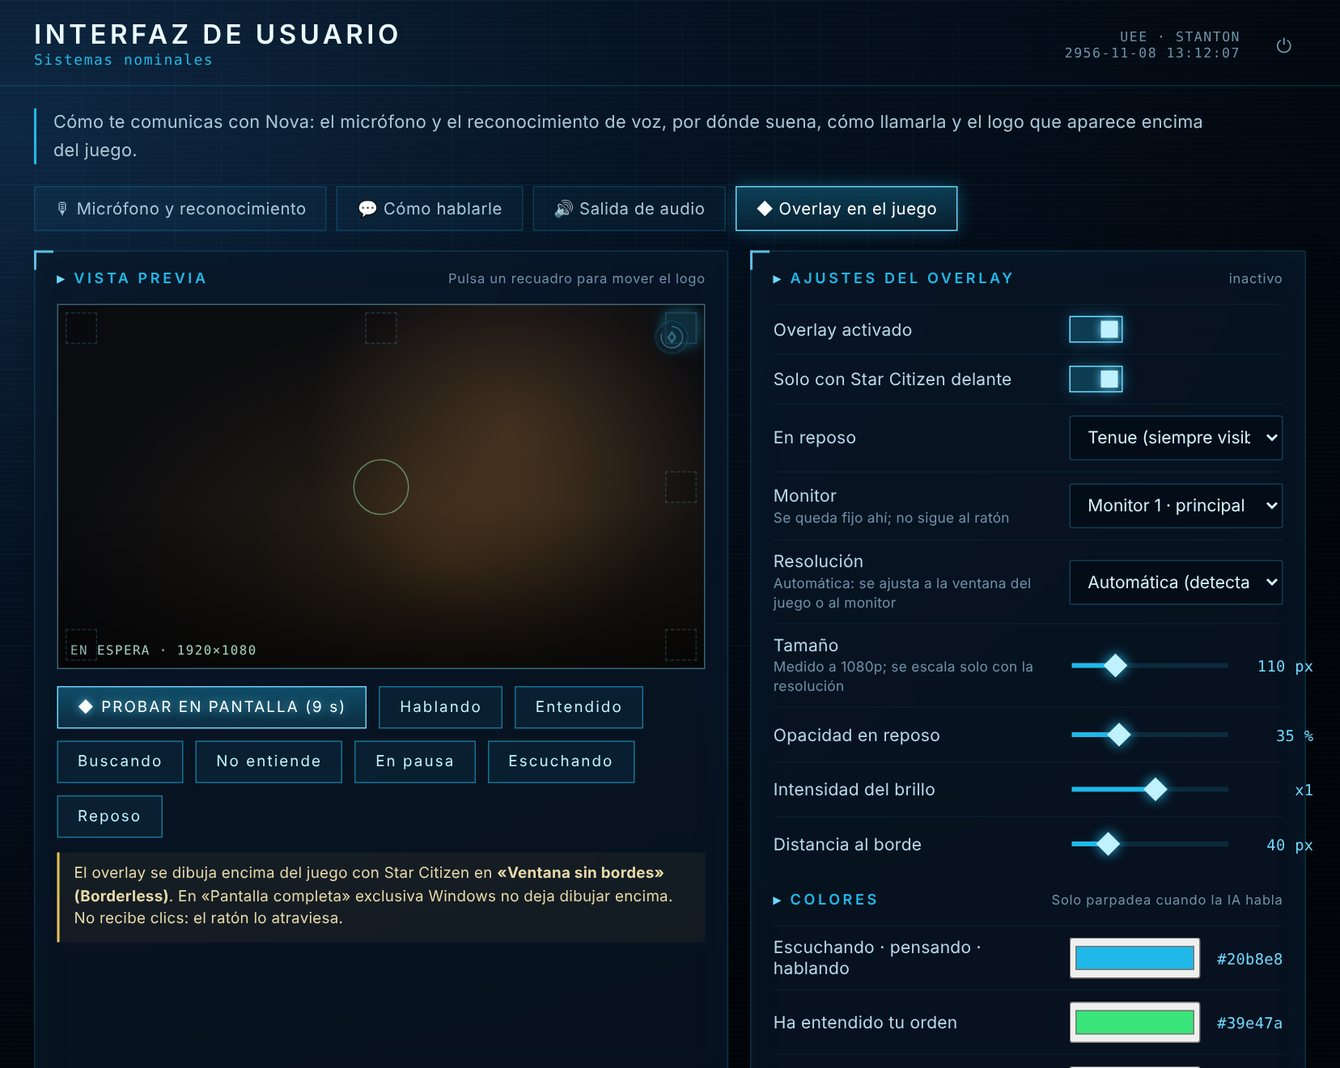
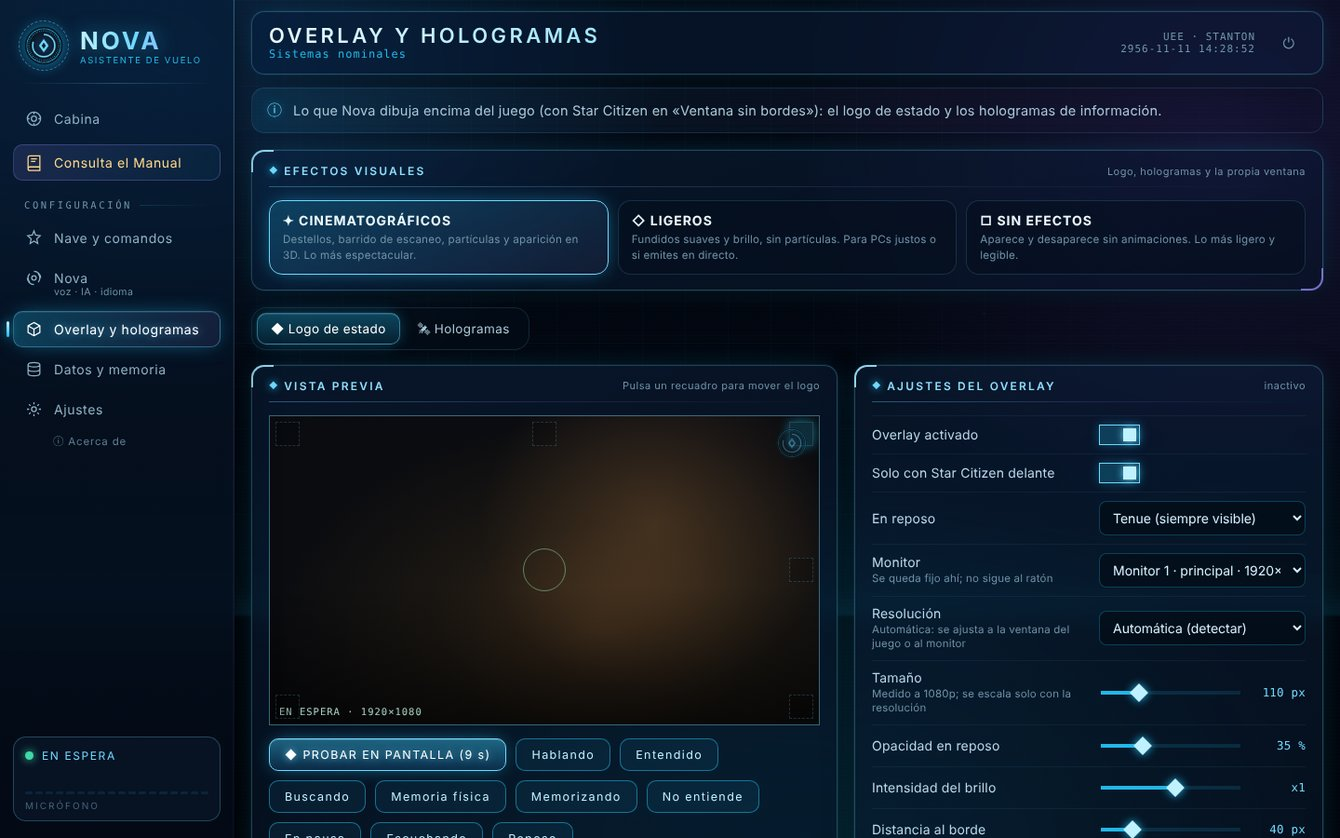
README: capturas nuevas de la 1.3 y todos los cambios
- Capturas de la ventana «Cristal holográfico» (cabina, secciones y asistente),
  vista en inglés y alemán, y la ventana «Acerca de» con la licencia MIT.
- Qué hace y Novedades de la 1.3 al día; versiones anteriores plegadas.
- Instalación con el paso de idioma, normas en cinco idiomas y aviso de
  SmartScreen y Control inteligente de aplicaciones mientras no esté firmada.
- Claves en Nova › Inteligencia (capítulo 11 del manual), sección de opiniones
  en Issues, compilación por etapas y GitHub Actions, estructura nueva,
  resumen en inglés y derechos de terceros ampliados.

Claude-Session: https://claude.ai/code/session_0187yjVjvMt5N21DENDTMtCJ

diff --git a/README.md b/README.md
@@ -5,14 +5,16 @@
 <h1 align="center">NOVA AI</h1>
 <p align="center"><b>Asistente de vuelo por voz para Star Citizen</b><br>
 Te escucha, te responde con voz natural, pulsa las teclas del juego por ti y sabe qué está pasando en tu partida.<br>
-<i>Versión oficial 1.3 · Windows 10/11 · español, English, català, français, Deutsch · todo gratis</i></p>
+<i>Versión oficial 1.3 · Windows 10/11 · español, English, català, français, Deutsch · todo gratis y de código abierto</i></p>
 
 <p align="center">
   <a href="../../releases/latest"><b>⬇ Descargar NOVA AI Setup.exe</b></a> ·
   <a href="LEEME.md">Guía completa (LEEME)</a> ·
   <a href="../../releases/latest">Manual de usuario (PDF)</a> ·
+  <a href="../../issues">Opiniones y errores</a> ·
   <a href="LICENSE">Licencia MIT</a> ·
-  <a href="#code-signing-policy">Code signing policy</a>
+  <a href="#code-signing-policy">Code signing policy</a> ·
+  <a href="#in-english">English</a>
 </p>
 
 ![Cabina de NOVA AI](docs/img/cabina.jpg)
@@ -20,25 +22,41 @@ Te escucha, te responde con voz natural, pulsa las teclas del juego por ti y sab
 ## Qué hace
 
 - **Te escucha:** mantén una tecla, un botón del ratón o del HOTAS, o simplemente di su nombre: *«Nova, baja el tren»*. El nombre lo eliges tú.
+- **Habla tu idioma:** español, inglés, catalán, francés o alemán. La ventana, su voz, lo que entiende, los comandos, los hologramas y el manual cambian con el idioma, y te trata siempre de usted.
 - **Maneja la nave:** lee tus teclas de Star Citizen (`actionmaps.xml`) y las pulsa por ti: tren, pista, escudos, salto cuántico… Con un editor para crear tus propios comandos y secuencias.
-- **Conversa y busca** (con tu clave gratuita de IA): lore, naves, minería, planos de fabricación, misiones y precios, con datos del parche LIVE (scmdb.net, UEX Corp, Star Citizen Wiki) y una enciclopedia local.
-- **Sigue tu partida:** lee el `Game.log` en directo, en el idioma de tu juego: dónde estás, quién entra en tu nave, la torre, contratos, combate, curas en camilla médica, cargas…
-- **Cuaderno de bitácora:** apunta cada sesión: dónde dejaste el personaje, la última nave, muertes, bajas, incapacitaciones…
-- **Star Citizen en español:** instala y mantiene al día la traducción de la comunidad (0zzyt0) con un clic, y te avisa cada 3 meses.
-- **Brilla en el juego:** un overlay con su logo que cambia de color: escuchando, entendido, buscando o hablando.
-- **Recuerda:** lo que le cuentas, la conversación y dónde lo dejaste, aunque cierres el programa.
+- **Conversa y busca** (con tu clave gratuita de IA): lore, naves, minería, planos de fabricación, misiones y precios con datos del parche LIVE (scmdb.net, UEX Corp, Star Citizen Wiki, VerseGuide, StarMap…).
+- **Te dice dónde comprar:** *«¿Dónde compro un P4-AR?»* y te contesta por voz con las tiendas y los precios, sin abrir el navegador.
+- **Sigue tu partida:** lee el `Game.log` en directo: dónde estás, quién entra en tu nave, la torre, contratos, combate, curas en camilla médica, cargas…
+- **Hologramas sobre el juego:** fichas de jugadores (con su organización), objetivos de recompensa, planetas, lunas y lugares, con efectos cinematográficos, ligeros o ninguno.
+- **Chat del juego y Discord:** *«Nova, envía mensaje al chat…»* lo traduce y lo escribe por ti; las fichas pueden llegar solas a tu canal de Discord.
+- **Recuerda:** un Diccionario de consultas con unas 7.000 entradas que contesta sin gastar IA, lo que le cuentas y un cuaderno de bitácora de cada sesión.
+- **Star Citizen en tu idioma:** en español instala y mantiene al día la traducción de la comunidad (0zzyt0); en los demás idiomas instala el `global.ini` que elijas.
+- **Brilla en el juego:** un overlay con su logo que cambia de color según lo que hace: escuchando, entendido, buscando o hablando.
 
-### Novedades de la 1.3
+## Novedades de la 1.3
 
-- **Cinco idiomas** (español, inglés, catalán, francés y alemán), elegibles en el instalador o en Ajustes: ventana, voz de Nova, lo que entiende, comandos de voz, hologramas y manual.
-- **«Add your Language global.ini of Star Citizen [HERE]»**: instala el global.ini de la comunidad en tu idioma (con copia de seguridad y user.cfg).
-- **Ventana nueva «Cristal holográfico»** ordenada por tareas y **efectos en tres niveles** (cinematográficos, ligeros o sin efectos) para el logo y los hologramas.
-- **«¿Dónde compro un P4-AR?»** por voz con los datos de UEX, sin abrir el navegador, y **comprobación de las páginas de consulta** desde la app.
+![NOVA AI en inglés y en alemán](docs/img/idiomas.jpg)
 
-### Novedades de la 1.2.2
+- **Cinco idiomas**: español, English, català, français y Deutsch. Se eligen en el primer paso del instalador (propone el de tu Windows) o en *Ajustes › General*. Cambia la ventana, la voz de Nova (Edge y Piper), lo que entiende, los comandos de voz, los hologramas, la bitácora, las normas de uso y el manual. Quien ya usaba NOVA AI sigue en español.
+- **«Add your Language global.ini of Star Citizen [HERE]»** (traducido a cada idioma), en *Datos y memoria › Traducción del juego*: instala el `global.ini` de la comunidad en tu idioma con copia de seguridad, ajusta `user.cfg` y Nova lo usa para entender el `Game.log`. Se deshace con un botón. En los idiomas distintos del español se desactivan la traducción de 0zzyt0 y su descarga de Google Drive.
+- **Ventana nueva «Cristal holográfico»**, ordenada por tareas: **Cabina**, **Nave y comandos**, **Nova** (identidad e idioma, voz, micrófono, cómo hablarle, audio, inteligencia y ahorro de tokens), **Overlay y hologramas**, **Datos y memoria** y **Ajustes**. Cada sección tiene sus pestañas y una línea que explica para qué sirve.
+- **Efectos en tres niveles** para el logo y los hologramas: **cinematográficos** (destellos, barrido y aberración cromática), **ligeros** (para equipos modestos o si emites en directo) o **sin efectos**.
+- **«¿Dónde compro…?»** por voz con los datos de UEX Corp, sin abrir el navegador.
+- **Comprobar las páginas de consulta** desde *Datos y memoria › Páginas de consulta*: Nova prueba cada página en línea y te dice cuáles responden.
+- **Licencia MIT**: NOVA AI pasa a ser software libre y se compila desde este repositorio con GitHub Actions.
+
+| | |
+|---|---|
+| ![Nova: identidad e idioma](docs/img/nova.jpg) | ![Ajustes: idioma, actualizaciones y archivos](docs/img/ajustes.jpg) |
+| ![Overlay y efectos visuales](docs/img/overlay.jpg) | ![Hologramas](docs/img/hologramas.jpg) |
+
+<details>
+<summary><b>Novedades de versiones anteriores (1.2.2, 1.2 y 1.1)</b></summary>
+
+### 1.2.2
 
 - **Interruptor «NOVA ACTIVA»** en la Cabina: detiene a Nova al momento y cancela todas las búsquedas en curso.
-- **Mensajes al chat del juego:** «Nova, envía mensaje al chat…» lo traduce al inglés con Google Translate y lo escribe en el chat (F12).
+- **Mensajes al chat del juego:** «Nova, envía mensaje al chat…» lo traduce con Google Translate y lo escribe en el chat (F12).
 - **Discord:** cada ficha de jugador (y cada objetivo de recompensa) se manda sola, con foto y logotipo; la Cabina dice si llegó.
 - **Sonidos de los hologramas a tu gusto:** varios para elegir o un audio tuyo, con volumen para cada uno.
 - **Diccionario de consultas:** su memoria física en un .txt por grupos y en orden alfabético (unas 7.000 entradas del juego, con sus variantes). Contesta desde ahí sin gastar IA (overlay en morado) y memoriza lo que aprende en internet (en blanco). No caduca nunca.
@@ -46,41 +64,52 @@ Te escucha, te responde con voz natural, pulsa las teclas del juego por ti y sab
 - **Más páginas de la comunidad:** StarMap (API pública), SPViewer, Universal Item Finder (CStone) y SC Haulers.
 - **Manual dentro del programa** (📖 Consulta el Manual) con guía rápida y glosario, y Nova se presenta si le preguntas «¿quién eres?».
 
-### Novedades de la 1.2: hologramas y actualizaciones
+### 1.2: hologramas y actualizaciones
 
-- **Se actualiza sola:** al iniciar y al cerrar mira las Releases de este repositorio y pregunta «Se ha detectado una nueva versión vX.X de NOVA AI. ¿Quieres actualizar ahora?» [Sí] [No] [Al cerrar la aplicación].
-
+- **Se actualiza sola:** al iniciar y al cerrar mira las Releases de este repositorio y te pregunta si quieres actualizar ahora, más tarde o al cerrar.
 - **Fichas en holograma sobre el juego**, con animación de proyector y opacidad, tamaño, posición y duración a tu gusto.
 - **Ficha policial UEE** de un jugador: foto, datos y logotipo de su organización (los datos ocultos salen como `REDACTED`).
 - **Cazarrecompensas:** al aceptar una recompensa sobre un jugador, ficha del objetivo con el sello «OBJETIVO DE CAZA».
 - **Planetas, lunas y lugares planetarios** (cuevas, puestos, bases) de [verseguide.com](https://verseguide.com): al pedirlos por voz o al llegar cerca, con el cuerpo girando en 3D.
 
-### Novedades de la 1.1
+### 1.1
 
-- **Buscar jugadores:** *«Nova, búscame a un jugador»* → escribes el apodo en la Cabina y te da su ficha pública de RSI (apodo, handle, UEE Citizen Record, fecha de alta, idiomas, organización principal y datos de la org). Se guarda en la bitácora y, opcionalmente, se manda a un canal de Discord (webhook).
+- **Buscar jugadores:** *«Nova, búscame a un jugador»* → escribes el apodo en la Cabina y te da su ficha pública de RSI. Se guarda en la bitácora y, si quieres, se manda a Discord.
 - **Temporizadores** persistentes para refinados, contratos o lo que quieras, con aviso por voz.
 - **Rutas de comercio** con el beneficio real según las SCU de tu nave, el stock, la demanda y tu dinero (UEX).
 - **Perfiles de nave:** avisos distintos por nave y comandos que solo valen en ciertas naves.
 - **Estado de los servidores de RSI** al arrancar.
 - **Fijar objetivo por voz** anotado en la bitácora, **estadísticas** de todas tus sesiones y botón **🧹 Limpiar** en la Cabina.
 
+</details>
+
+## Capturas
+
 | | |
 |---|---|
-| ![Juego](docs/img/juego.jpg) | ![Fuentes de datos](docs/img/fuentes.jpg) |
-| ![Overlay](docs/img/overlay.jpg) | ![Archivos de bitácora](docs/img/bitacora.jpg) |
+| ![Nave y comandos: comandos de voz](docs/img/juego.jpg)<br><sub>**Nave y comandos:** tus comandos de voz y sus teclas</sub> | ![Nave y comandos: lectura del juego](docs/img/lectura.jpg)<br><sub>**Lectura del juego:** qué avisos lee del Game.log</sub> |
+| ![Nova: inteligencia](docs/img/ia.jpg)<br><sub>**Nova › Inteligencia:** claves gratuitas y cadena de motores</sub> | ![Datos y memoria: páginas de consulta](docs/img/datos.jpg)<br><sub>**Datos y memoria:** páginas de consulta y su comprobación</sub> |
+| ![Diccionario de consultas](docs/img/diccionario.jpg)<br><sub>**Diccionario de consultas:** contesta sin gastar IA</sub> | ![Bitácora y estadísticas](docs/img/bitacora.jpg)<br><sub>**Bitácora y estadísticas** de tus sesiones</sub> |
 
 ## Instalación
 
-1. Descarga **`NOVA AI Setup.exe`** desde [Releases](../../releases/latest).
+1. Descarga **`NOVA AI Setup.exe`** desde [Releases](../../releases/latest) (o el `.zip` portátil).
 2. Ábrelo y acepta el permiso de administrador (se instala en `C:\Program Files\NOVA AI`).
-3. Acepta las [Normas de uso y la Política de privacidad](NORMAS_Y_PRIVACIDAD.md) y pulsa **Iniciar**.
-4. Al terminar, abre **NOVA AI** desde el escritorio: un asistente de 7 pasos la deja lista para tu voz.
+3. **Elige tu idioma** (propone el de tu Windows).
+4. Acepta las Normas de uso y la Política de privacidad, en tu idioma ([ES](NORMAS_Y_PRIVACIDAD.md) · [EN](NORMAS_Y_PRIVACIDAD.en.md) · [CA](NORMAS_Y_PRIVACIDAD.ca.md) · [FR](NORMAS_Y_PRIVACIDAD.fr.md) · [DE](NORMAS_Y_PRIVACIDAD.de.md)), y pulsa **Iniciar**.
+5. Al terminar, abre **NOVA AI** desde el escritorio: un asistente de 7 pasos la deja lista para tu voz.
 
-> **«Windows protegió su PC»:** el instalador no está firmado con un certificado de pago. Pulsa *Más información → Ejecutar de todas formas*.
+El instalador descarga Python 3.12 si no lo tienes (solo para Nova), crea los accesos directos y registra el desinstalador. Todos los detalles están en el [LEEME](LEEME.md) y en el manual en PDF de *Releases*.
 
-El instalador descarga Python 3.12 si no lo tienes (solo para Nova), crea los accesos directos y registra el desinstalador. Todos los detalles están en el [LEEME](LEEME.md) y en el manual en PDF de la sección *Releases*.
+> [!IMPORTANT]
+> **Los ejecutables de la 1.3 todavía no están firmados.** La firma digital gratuita está solicitada a SignPath Foundation (ver [Code signing policy](#code-signing-policy)).
+>
+> - **«Windows protegió su PC» (SmartScreen):** pulsa *Más información → Ejecutar de todas formas*.
+> - **Control inteligente de aplicaciones** (Windows 11, *Seguridad de Windows › Control de aplicaciones y navegador*): si está en **Activado**, bloquea cualquier programa sin firmar y no permite excepciones. Para instalar NOVA AI hay que ponerlo en **Desactivado** (el `.zip` portátil también se bloquea) o esperar a la versión firmada. Desde la actualización de Windows de abril de 2026 se puede volver a activar después sin reinstalar Windows. Si está en **Evaluación**, Windows decide solo y puede dejarlo pasar.
+>
+> Para comprobar que el archivo es el original, compara la huella SHA-256 que muestra GitHub junto a cada archivo de la Release con la de tu descarga: `certutil -hashfile "NOVA AI Setup.exe" SHA256`.
 
-<p align="center"><img src="docs/img/asistente.jpg" width="640" alt="Configuración inicial"></p>
+<p align="center"><img src="docs/img/asistente.jpg" width="720" alt="Configuración inicial"></p>
 
 ## Motores de IA y claves
 
@@ -93,14 +122,18 @@ NOVA AI usa servicios gratuitos, en una **cadena de motores**: si uno se queda s
 | 3 | Groq | `openai/gpt-oss-120b` |
 | 4 | OpenRouter | `openrouter/free` |
 
-El instalador de *Releases* **no trae claves de IA**: Nova obedece los comandos de voz desde el primer momento, y para conversar y buscar necesita al menos una clave gratuita. Se consiguen en 2 minutos y sin tarjeta (Gemini y Groq son las recomendadas): la sección 12 del manual lo explica paso a paso. Después se pegan en *Inteligencia › Claves gratuitas*.
+El instalador de *Releases* **no trae claves de IA**: Nova obedece los comandos de voz desde el primer momento, y para conversar y buscar necesita al menos una clave gratuita. Se consiguen en 2 minutos y sin tarjeta (Gemini y Groq son las recomendadas): el capítulo 11 del manual, *Tus propias API Keys*, lo explica paso a paso. Después se pegan en ***Nova › Inteligencia › Claves gratuitas***. Nova contesta siempre en el idioma que hayas elegido.
 
 **Sobre las claves en este repositorio:** el programa admite claves de fábrica **cifradas** (`recursos/claves_iniciales.enc`, ver [`core/keyvault.py`](core/keyvault.py)), pero la llave maestra **no está en el repositorio ni en la versión pública**, así que esas claves no se pueden usar ni leer. Si compilas tu propia versión, usa tus claves con [`build/cifrar_claves.py`](build/cifrar_claves.py), o no pongas ninguna y cada usuario pondrá las suyas.
+
+## Opiniones, errores e ideas
+
+¿Lo has probado? Cuéntalo en **[Issues](../../issues)**: qué te ha gustado, qué falla y qué echas en falta. Para un error ayuda mucho indicar el idioma elegido, la versión de Windows, qué le dijiste a Nova y el archivo `nova.log` (*Ajustes › General › Archivos › Registro*). Se aceptan opiniones en cualquiera de los cinco idiomas.
 
 ## Ejecutar desde el código
 
 ```bat
-git clone https://github.com/<usuario>/NOVA-AI.git
+git clone https://github.com/0zzyt0/NOVA-AI.git
 cd NOVA-AI
 INSTALAR_CONSOLA.bat   :: crea el entorno .venv e instala lo necesario (modo portátil)
 INICIAR.bat
@@ -113,23 +146,30 @@ Requisitos: Windows 10/11 y Python 3.11–3.13. Para ver los mensajes técnicos,
 Los ejecutables (`NOVA AI Setup.exe`, `NOVA AI.exe`, `Desinstalar NOVA AI.exe`) son programas pequeños en Go, solo con su biblioteca estándar. El icono, el manifiesto y la información de versión se generan con [`build/winres.py`](build/winres.py), sin herramientas externas.
 
 ```bash
-build/build_win.sh      # necesita Go 1.24+ y Python 3; el resultado queda en dist/
+build/build_win.sh                    # todo de una vez (Go 1.24+ y Python 3); el resultado queda en dist/
+NOVA_STAGE=exes build/build_win.sh    # 1.º solo los .exe del programa y el instalador ligero
+NOVA_STAGE=pack build/build_win.sh    # 2.º empaqueta esos .exe (ya firmados) en el instalador todo en uno
 ```
+
+Las versiones públicas se compilan con **GitHub Actions** ([`.github/workflows/compilar.yml`](.github/workflows/compilar.yml), «Compilar y firmar») en los servidores de GitHub, al publicar una etiqueta `v*` o a mano: compila los .exe, los manda a firmar, empaqueta el instalador, lo manda a firmar y deja como artefacto el `Setup.exe`, el `.zip` portátil y `SHA256SUMS.txt`. La firma solo se activa cuando el proyecto tiene configurado SignPath; sin ella el flujo produce la misma versión sin firmar. Más detalles en [`build/LEEME_COMPILAR.md`](build/LEEME_COMPILAR.md).
 
 ## Estructura
 
 | Carpeta | Contenido |
 |---|---|
-| `nova.py` | Arranque: comprueba datos nuevos, activa el oído, la voz y la ventana |
-| `core/` | Reconocimiento y síntesis de voz, IA, comandos y teclas, lectura del Game.log, bitácora, memoria, fuentes de datos, traducción |
-| `gui/` | Ventana local (HTML + JS) y servidor; `gui/web/acerca/` es la ventana «Acerca de» |
-| `instalador/` | Instalador y desinstalador gráficos (PowerShell + WPF) |
+| `nova.py` | Arranque: idioma inicial, datos nuevos, el oído, la voz y la ventana |
+| `core/` | Reconocimiento y síntesis de voz, IA, comandos y teclas, lectura del Game.log, hologramas, overlay, bitácora, memoria, fuentes de datos, traducción e idiomas (`i18n.py`, `lang_data.py`, `manual_tr.py`) |
+| `gui/` | Ventana local (HTML + JS) y servidor; `gui/web/manual/` es el manual y `gui/web/acerca/` la ventana «Acerca de» |
+| `instalador/` | Instalador y desinstalador gráficos en cinco idiomas (PowerShell + WPF) |
 | `build/` | Fuentes de los .exe (Go), generador de recursos de Windows e iconos |
-| `datos/comandos.json` | Comandos de voz de fábrica |
+| `.github/workflows/` | Compilación y firma con GitHub Actions |
+| `recursos/idiomas/` | Textos de la ventana y de Nova en inglés, catalán, francés y alemán |
+| `datos/comandos.json` | Comandos de voz de fábrica (español) y `datos/comandos.<idioma>.json` con sus frases en cada idioma |
+| `NORMAS_Y_PRIVACIDAD*.md` | Normas de uso y Política de privacidad en los cinco idiomas |
 
 ## Privacidad
 
-Tus datos se quedan en tu PC (`%LOCALAPPDATA%\NOVA AI\datos`): sin servidores propios, sin cuentas y sin telemetría, y no se hacen grabaciones. Lo que le pides a Nova se envía como texto al servicio de IA que responde, como si lo escribieras en su web. El detalle completo está en [NORMAS_Y_PRIVACIDAD.md](NORMAS_Y_PRIVACIDAD.md).
+Tus datos se quedan en tu PC (`%LOCALAPPDATA%\NOVA AI\datos`): sin servidores propios, sin cuentas y sin telemetría, y no se hacen grabaciones. Lo que le pides a Nova se envía como texto al servicio de IA que responde, como si lo escribieras en su web; los textos que no están ya traducidos se traducen con Google Translate. El detalle completo está en las [Normas de uso y Política de privacidad](NORMAS_Y_PRIVACIDAD.md).
 
 ## Acerca de
 
@@ -158,10 +198,18 @@ Free code signing provided by [SignPath.io](https://about.signpath.io), certific
 
 This program will not transfer any information to other networked systems unless specifically requested by the user or the person installing or operating it. What each online feature sends, and how to turn it off, is described in the privacy policy shown during installation: [English](NORMAS_Y_PRIVACIDAD.en.md) · [Español](NORMAS_Y_PRIVACIDAD.md) · [Català](NORMAS_Y_PRIVACIDAD.ca.md) · [Français](NORMAS_Y_PRIVACIDAD.fr.md) · [Deutsch](NORMAS_Y_PRIVACIDAD.de.md).
 
+## In English
+
+**NOVA AI** is a free, open-source (MIT) voice flight assistant for Star Citizen on Windows 10/11. It listens (push-to-talk or its name), answers with a natural voice, presses your game keybinds for you, reads `Game.log` live, shows holograms over the game (player records, bounty targets, planets and places) and keeps a logbook of every session.
+
+Version 1.3 speaks **English, Spanish, Catalan, French and German**: choose the language in the installer or in *Settings › General*. Outside Spanish, *Data & memory › Game language* has an **«Add your Language global.ini of Star Citizen [HERE]»** button that installs your community translation (with a backup and `user.cfg`). Ask *«Where can I buy a P4-AR?»* and Nova answers by voice from UEX data, without opening a browser.
+
+To chat and search, Nova needs at least one free AI key (Gemini or Groq, no card needed), pasted in *Nova › Intelligence › Free keys*. The 1.3 executables are **not code-signed yet** (a SignPath Foundation application is in progress): SmartScreen needs *More info → Run anyway*, and Windows 11 **Smart App Control**, when set to *On*, blocks unsigned apps with no exceptions. Feedback and bug reports are welcome in **[Issues](../../issues)**.
+
 ## Derechos de terceros
 
 Star Citizen®, Squadron 42®, Roberts Space Industries® y Cloud Imperium® son marcas registradas de Cloud Imperium Rights LLC. Todas las referencias a Star Citizen que aparecen en NOVA AI (logotipos, nombres de naves, personajes, objetos, lugares y demás contenidos del juego) pertenecen a sus legítimos titulares y están sujetas a sus propios derechos de uso. NOVA AI es un proyecto de fans, independiente y sin ánimo de lucro: no está afiliado, patrocinado ni respaldado por Cloud Imperium Games.
 
-Las páginas de consulta [scmdb.net](https://scmdb.net) y [UEX Corp](https://uexcorp.space) son propiedad de sus respectivos autores, tienen sus propias condiciones de uso y sus contenidos están protegidos. NOVA AI se limita a **consultarlas en línea y a leer la información que publican**, igual que lo haría cualquier persona desde su navegador: **no modifica, altera ni manipula sus datos, no los redistribuye** (los datos de scmdb.net, con licencia CC BY-NC-ND 4.0, no se incluyen en este repositorio: se descargan en cada equipo) **y no se atribuye su autoría**. Lo mismo se aplica a Star Citizen Wiki y a la traducción al español de la comunidad.
+Las páginas de consulta [scmdb.net](https://scmdb.net), [UEX Corp](https://uexcorp.space), [Star Citizen Wiki](https://starcitizen.tools), [VerseGuide](https://verseguide.com), StarMap, SPViewer, [Universal Item Finder (CStone)](https://finder.cstone.space) y SC Haulers, así como el sitio de [Roberts Space Industries](https://robertsspaceindustries.com), son propiedad de sus respectivos autores, tienen sus propias condiciones de uso y sus contenidos están protegidos. NOVA AI se limita a **consultarlas en línea y a leer la información que publican**, igual que lo haría cualquier persona desde su navegador: **no modifica, altera ni manipula sus datos, no los redistribuye** (los datos de scmdb.net, con licencia CC BY-NC-ND 4.0, no se incluyen en este repositorio: se descargan en cada equipo) **y no se atribuye su autoría**. Lo mismo se aplica a Google Translate, a los `global.ini` de las comunidades de traducción y a la traducción al español de 0zzyt0.
 
 <p align="center"><b>o7 · Nos vemos en el 'verso</b></p>
